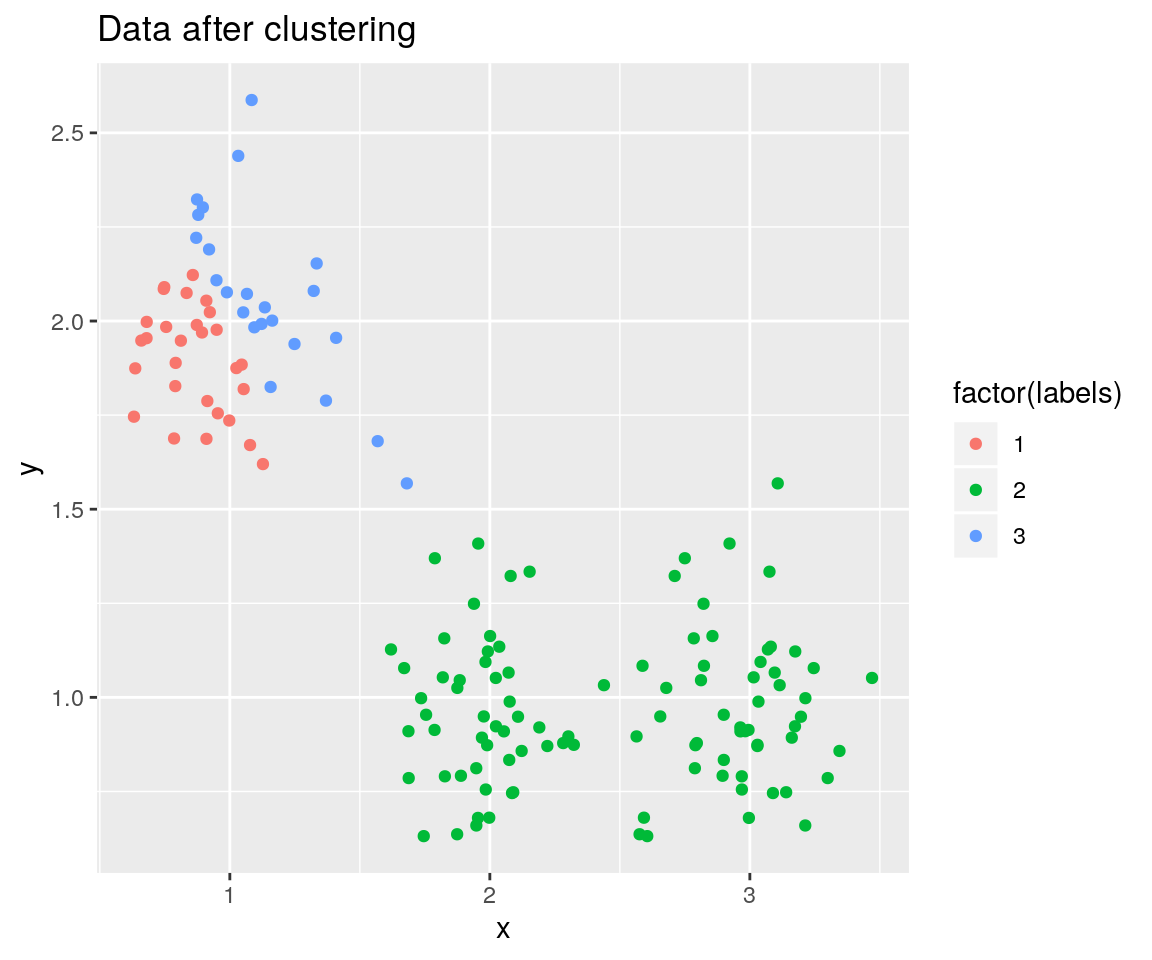
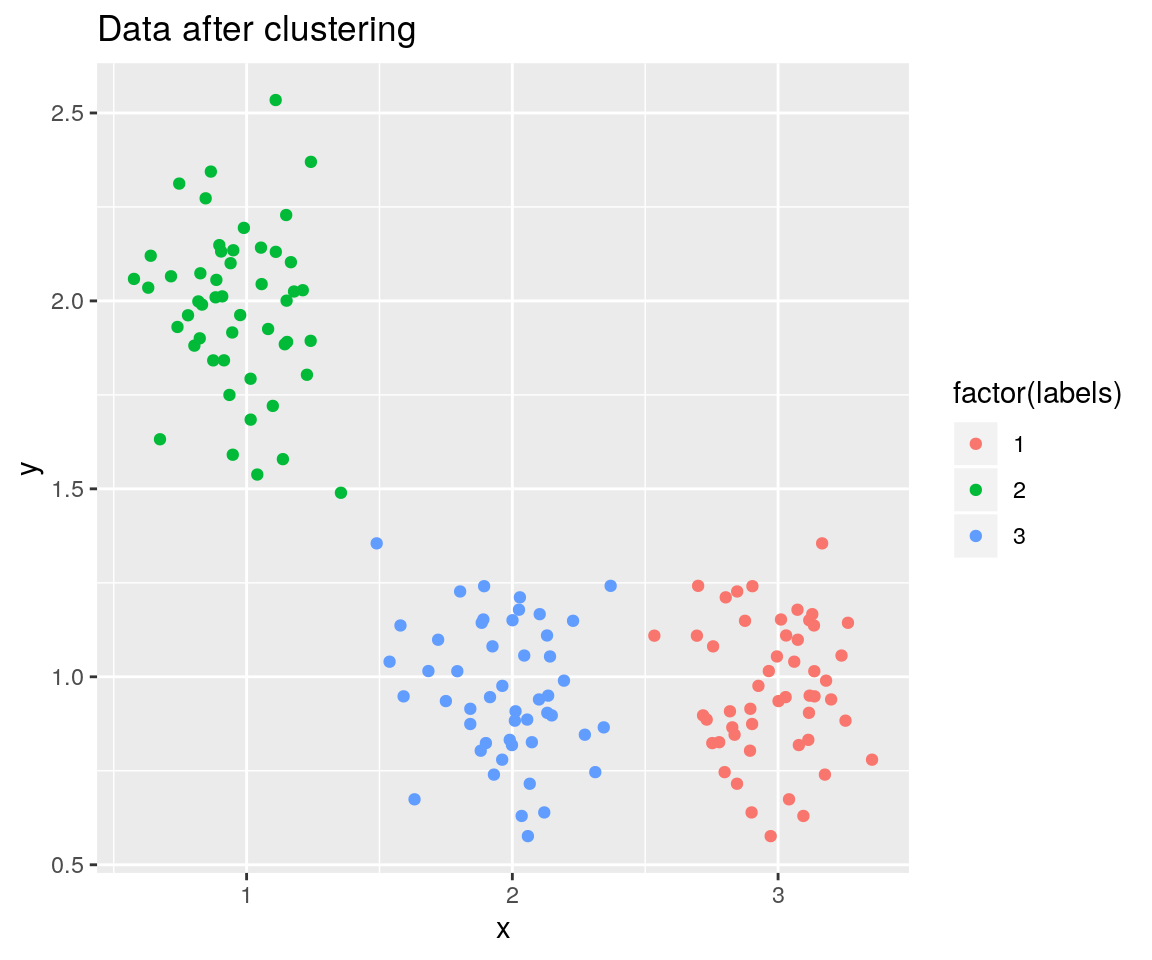
Updated vignettes with modified description of data

diff --git a/docs/articles/KmeansR-vignette.html b/docs/articles/KmeansR-vignette.html
@@ -105,7 +105,7 @@
 <div id="data" class="section level2">
 <h2 class="hasAnchor">
 <a href="#data" class="anchor"></a>Data</h2>
-<p>To explore the Kmeans package, we will use the iris dataset. This dataset contains features from 4 different variesties of Iris flowers. This is a classical dataset for classification. Let’s explore how to cluster this dataset using the Kmeans package.</p>
+<p>To explore the Kmeans package, we will use a randomly generated dataset having 3 clustesr. Let’s explore how to cluster this dataset using the Kmeans package.</p>
 <div class="sourceCode" id="cb2"><pre class="sourceCode r"><code class="sourceCode r"><a class="sourceLine" id="cb2-1" data-line-number="1">x1 &lt;-<span class="st"> </span><span class="kw"><a href="https://rdrr.io/r/stats/Normal.html">rnorm</a></span>(<span class="dv">50</span>, <span class="dv">1</span>, <span class="fl">0.2</span>)</a>
 <a class="sourceLine" id="cb2-2" data-line-number="2">x2 &lt;-<span class="st"> </span><span class="kw"><a href="https://rdrr.io/r/stats/Normal.html">rnorm</a></span>(<span class="dv">50</span>, <span class="dv">2</span>, <span class="fl">0.2</span>)</a>
 <a class="sourceLine" id="cb2-3" data-line-number="3">x3 &lt;-<span class="st"> </span><span class="kw"><a href="https://rdrr.io/r/stats/Normal.html">rnorm</a></span>(<span class="dv">50</span>, <span class="dv">3</span>, <span class="fl">0.2</span>)</a>
@@ -125,18 +125,18 @@
 <a class="sourceLine" id="cb3-4" data-line-number="4"><span class="kw"><a href="https://rdrr.io/r/base/print.html">print</a></span>(<span class="st">"Cluster centers are: "</span>)</a>
 <a class="sourceLine" id="cb3-5" data-line-number="5"><span class="co">#&gt; [1] "Cluster centers are: "</span></a>
 <a class="sourceLine" id="cb3-6" data-line-number="6">centers</a>
-<a class="sourceLine" id="cb3-7" data-line-number="7"><span class="co">#&gt;           x        y</span></a>
-<a class="sourceLine" id="cb3-8" data-line-number="8"><span class="co">#&gt; 1 0.8592525 1.895557</span></a>
-<a class="sourceLine" id="cb3-9" data-line-number="9"><span class="co">#&gt; 2 2.4841097 0.965830</span></a>
-<a class="sourceLine" id="cb3-10" data-line-number="10"><span class="co">#&gt; 3 1.1397674 2.070766</span></a>
+<a class="sourceLine" id="cb3-7" data-line-number="7"><span class="co">#&gt;           x         y</span></a>
+<a class="sourceLine" id="cb3-8" data-line-number="8"><span class="co">#&gt; 1 2.9803755 0.9668848</span></a>
+<a class="sourceLine" id="cb3-9" data-line-number="9"><span class="co">#&gt; 2 0.9640346 1.9814926</span></a>
+<a class="sourceLine" id="cb3-10" data-line-number="10"><span class="co">#&gt; 3 1.9702088 0.9610680</span></a>
 <a class="sourceLine" id="cb3-11" data-line-number="11"><span class="kw"><a href="https://rdrr.io/r/base/print.html">print</a></span>(<span class="st">"Labels are : "</span>)</a>
 <a class="sourceLine" id="cb3-12" data-line-number="12"><span class="co">#&gt; [1] "Labels are : "</span></a>
 <a class="sourceLine" id="cb3-13" data-line-number="13">labels</a>
-<a class="sourceLine" id="cb3-14" data-line-number="14"><span class="co">#&gt;   [1] 1 1 3 1 1 1 3 1 1 1 1 3 1 3 3 3 3 3 1 3 3 3 1 1 3 3 3 1 3 3 1 1 1 1 3 3 3</span></a>
-<a class="sourceLine" id="cb3-15" data-line-number="15"><span class="co">#&gt;  [38] 1 3 3 3 1 1 1 1 1 1 1 1 1 2 2 2 2 2 2 2 2 2 2 2 2 2 2 2 2 2 2 2 2 2 3 2 2</span></a>
-<a class="sourceLine" id="cb3-16" data-line-number="16"><span class="co">#&gt;  [75] 2 2 2 2 2 2 2 2 2 2 2 2 2 2 2 2 2 2 2 2 2 2 2 2 2 2 2 2 2 2 2 2 2 2 2 2 2</span></a>
-<a class="sourceLine" id="cb3-17" data-line-number="17"><span class="co">#&gt; [112] 2 2 2 2 2 2 2 2 2 2 2 2 2 2 2 2 2 2 2 2 2 2 2 2 2 2 2 2 2 2 2 2 2 2 2 2 2</span></a>
-<a class="sourceLine" id="cb3-18" data-line-number="18"><span class="co">#&gt; [149] 2 2</span></a>
+<a class="sourceLine" id="cb3-14" data-line-number="14"><span class="co">#&gt;   [1] 2 2 2 2 2 2 2 2 2 2 2 2 2 2 2 2 2 2 2 2 2 2 2 2 2 2 2 2 2 2 2 2 2 2 2 2 2</span></a>
+<a class="sourceLine" id="cb3-15" data-line-number="15"><span class="co">#&gt;  [38] 2 2 2 2 2 2 2 2 2 2 2 2 2 3 3 3 3 3 3 1 3 3 3 3 3 3 3 3 3 3 3 3 3 3 3 3 3</span></a>
+<a class="sourceLine" id="cb3-16" data-line-number="16"><span class="co">#&gt;  [75] 3 3 3 3 3 3 3 3 3 3 3 3 3 3 3 3 3 3 3 3 3 3 3 3 3 3 1 1 1 1 1 1 1 1 1 1 1</span></a>
+<a class="sourceLine" id="cb3-17" data-line-number="17"><span class="co">#&gt; [112] 1 1 1 1 1 1 1 1 1 1 1 1 1 1 1 1 1 1 1 1 1 1 1 1 1 1 1 1 1 1 1 1 1 1 1 1 1</span></a>
+<a class="sourceLine" id="cb3-18" data-line-number="18"><span class="co">#&gt; [149] 1 1</span></a>
 <a class="sourceLine" id="cb3-19" data-line-number="19"></a>
 <a class="sourceLine" id="cb3-20" data-line-number="20"><span class="co"># Plot the clusters</span></a>
 <a class="sourceLine" id="cb3-21" data-line-number="21">df_results &lt;-<span class="st"> </span>X_train</a>
